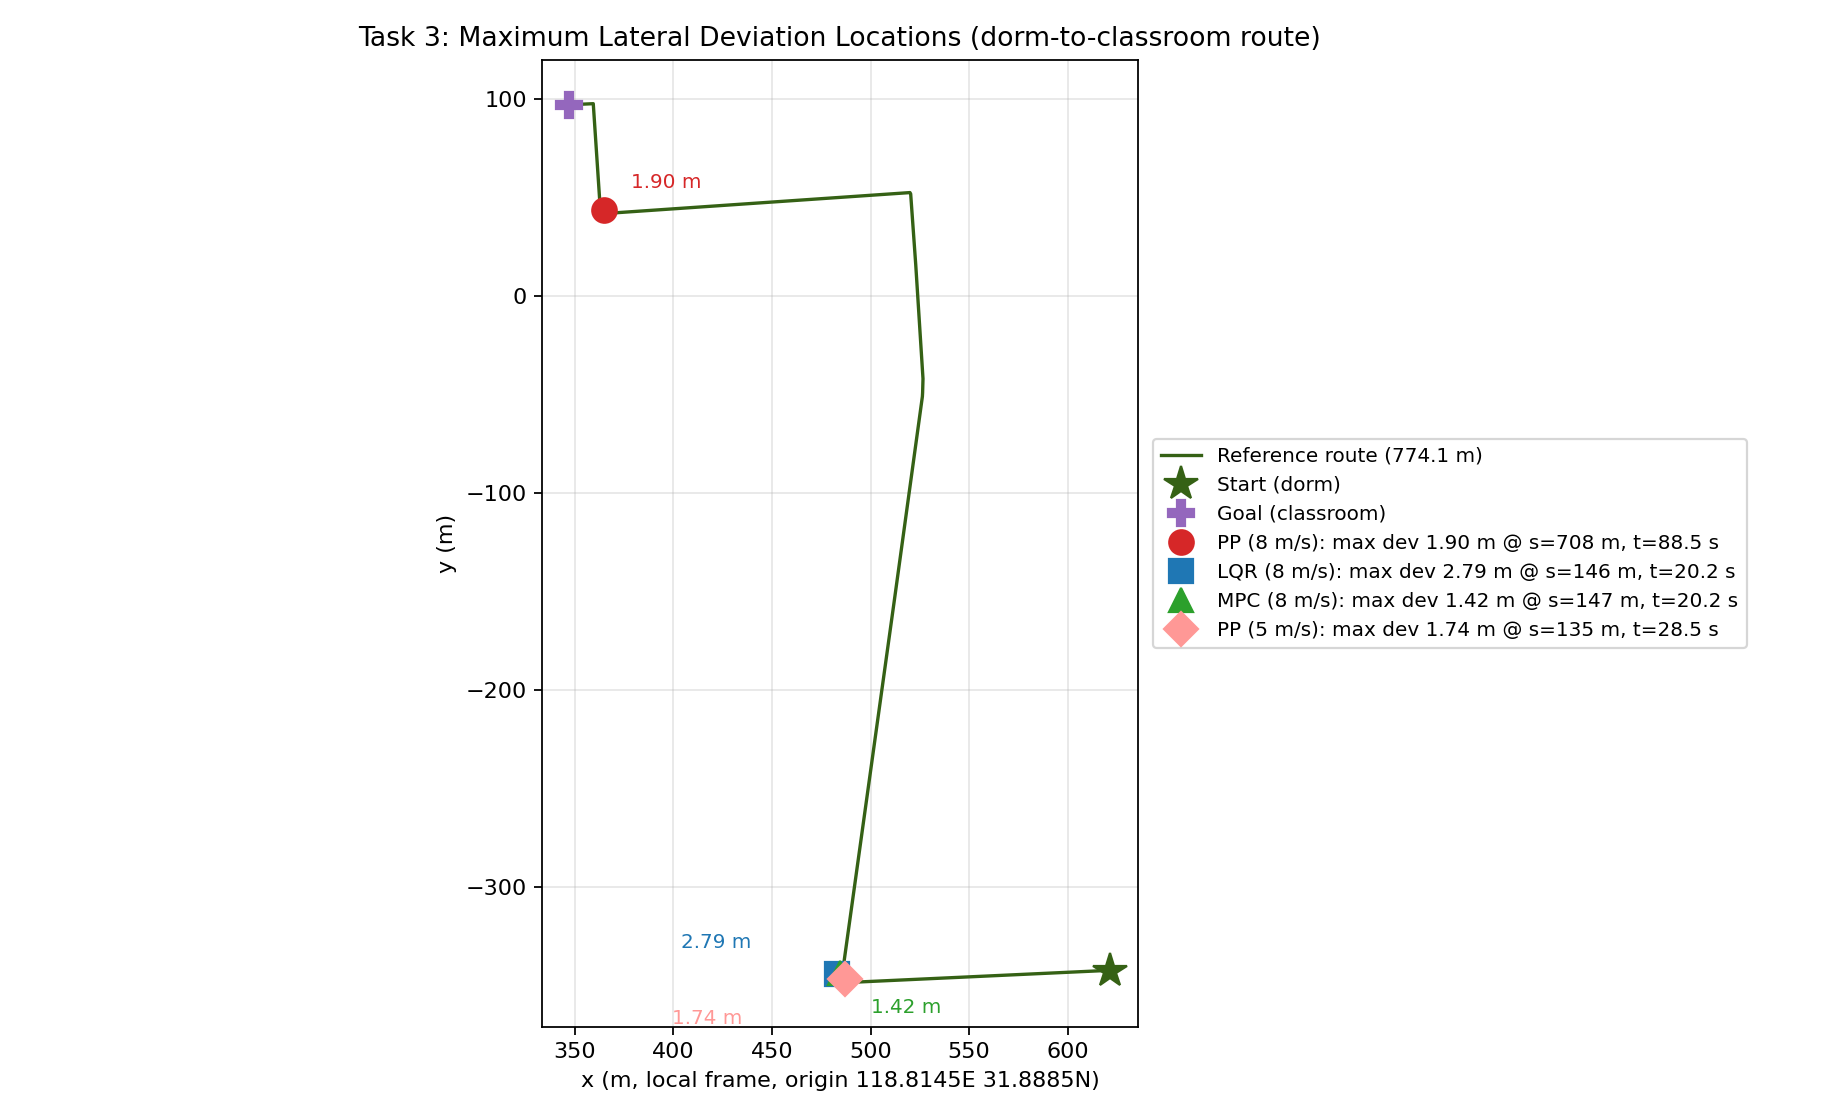
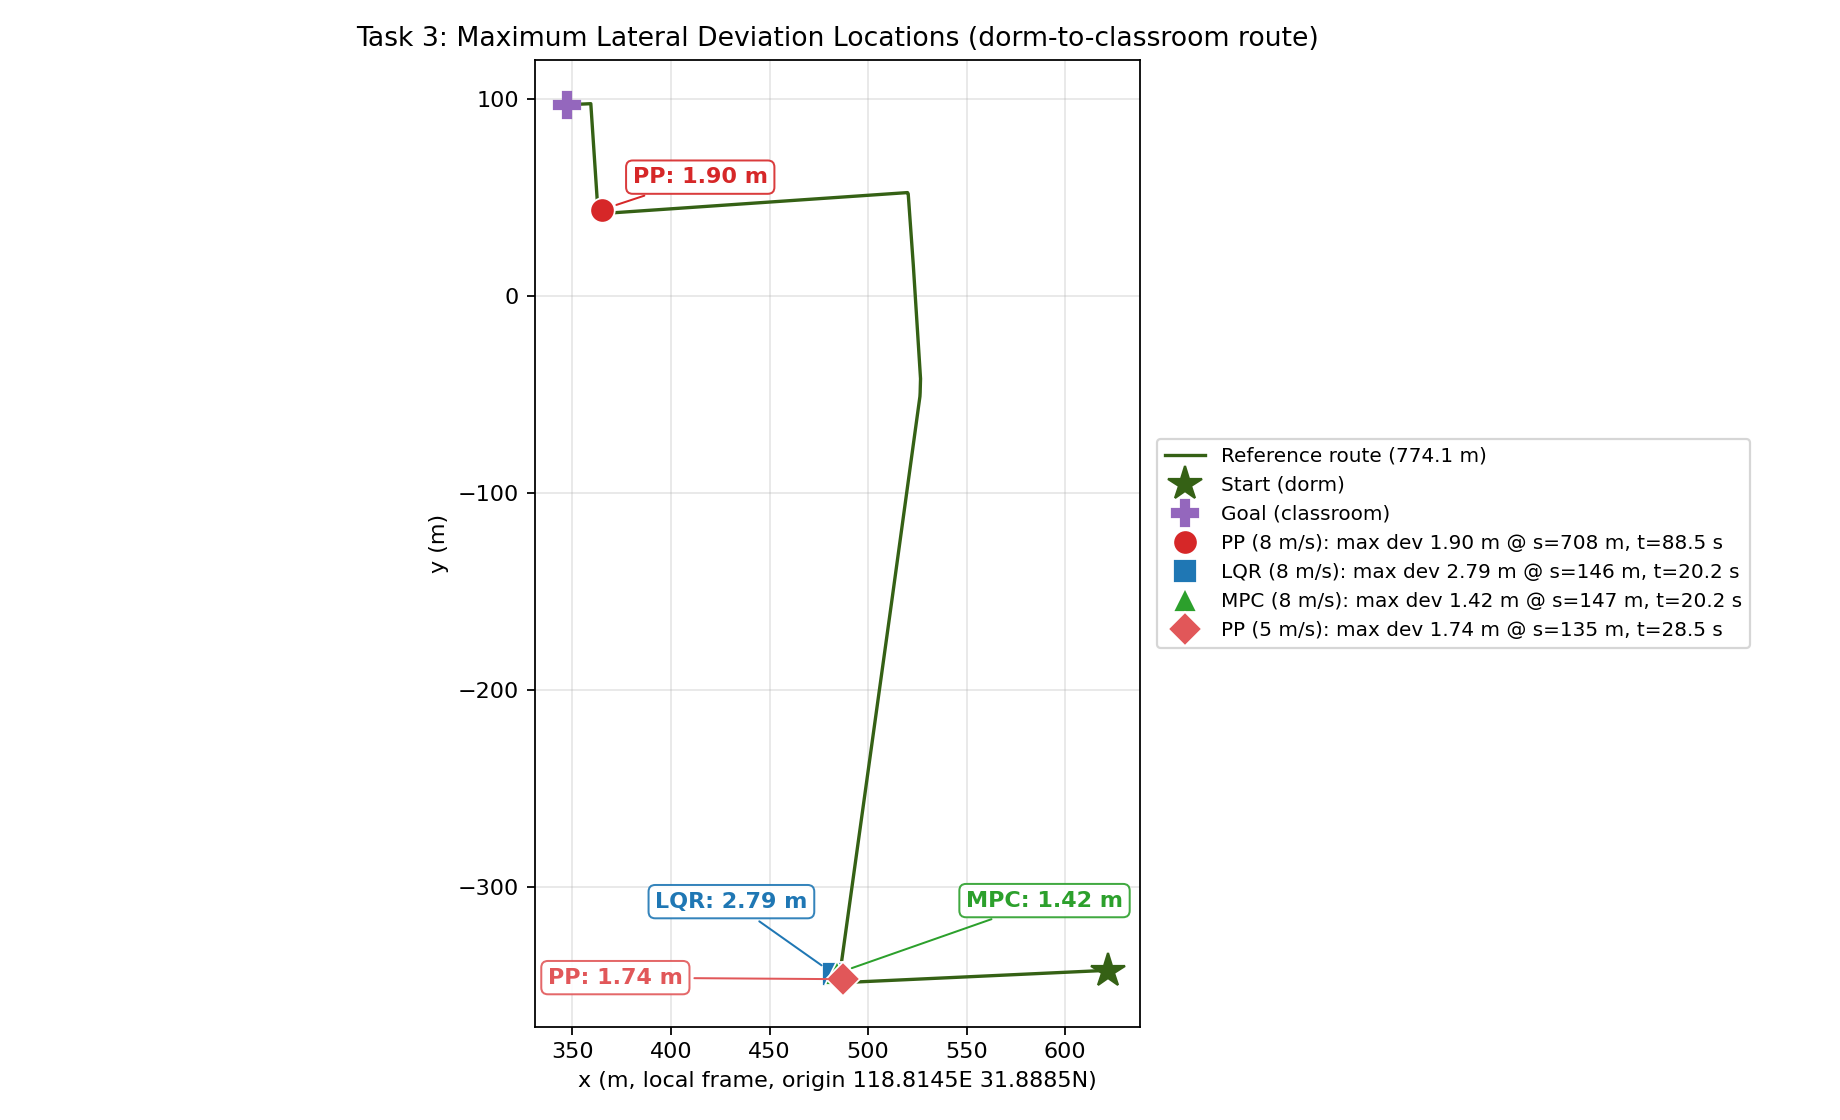
docs: improve deviation map annotations with leader lines and staggered labels

diff --git a/task3/scripts/plot_deviation_map.py b/task3/scripts/plot_deviation_map.py
@@ -18,11 +18,13 @@ import matplotlib.pyplot as plt
 DATA_DIR = Path(__file__).resolve().parents[1] / "data" / "20260916_task3"
 OUT_DIR = Path(__file__).resolve().parents[1] / "report" / "figures"
 
+# 标注位置：xytext 为相对点位的偏移（单位 pt），ha 控制文本对齐，
+# 底部三个点靠得很近，分别朝左上/右下/左下引出，避免互相遮挡。
 RUNS = {
-    "pp__speed8": ("PP (8 m/s)", "#d62728", "o", (12, 10)),
-    "lqr_kinematic__speed8": ("LQR (8 m/s)", "#1f77b4", "s", (-70, 12)),
-    "mpc__speed8": ("MPC (8 m/s)", "#2ca02c", "^", (14, -18)),
-    "pp__speed5": ("PP (5 m/s)", "#ff9896", "D", (-78, -20)),
+    "pp__speed8": ("PP (8 m/s)", "#d62728", "o", (14, 12), "left"),
+    "lqr_kinematic__speed8": ("LQR (8 m/s)", "#1f77b4", "s", (-12, 30), "right"),
+    "mpc__speed8": ("MPC (8 m/s)", "#2ca02c", "^", (58, 30), "left"),
+    "pp__speed5": ("PP (5 m/s)", "#e15759", "D", (-72, -2), "right"),
 }
 
 
@@ -47,24 +49,29 @@ def main():
     ax.plot(rx[0], ry[0], marker="*", ms=16, color="#356115", ls="none", label="Start (dorm)")
     ax.plot(rx[-1], ry[-1], marker="P", ms=12, color="#9467bd", ls="none", label="Goal (classroom)")
 
-    for run, (label, color, marker, offset) in RUNS.items():
+    for run, (label, color, marker, offset, ha) in RUNS.items():
         _, _, peak, near = load(run)
         err = abs(float(peak["lateral_error"]))
         ax.plot(
             float(peak["x"]), float(peak["y"]),
-            marker=marker, ms=11, color=color, ls="none",
+            marker=marker, ms=11, color=color, ls="none", mec="white", mew=0.8,
             label=f"{label}: max dev {err:.2f} m @ s={float(near['s_m']):.0f} m, t={float(peak['time']):.1f} s",
         )
         ax.annotate(
-            f"{err:.2f} m",
+            f"{label.split(' (')[0]}: {err:.2f} m",
             (float(peak["x"]), float(peak["y"])),
-            textcoords="offset points", xytext=offset, fontsize=9, color=color,
+            textcoords="offset points", xytext=offset, ha=ha,
+            fontsize=10, fontweight="bold", color=color,
+            bbox=dict(boxstyle="round,pad=0.3", fc="white", ec=color, lw=0.9, alpha=0.9),
+            arrowprops=dict(arrowstyle="-", color=color, lw=0.9, shrinkB=7),
+            zorder=5,
         )
 
     ax.set_title("Task 3: Maximum Lateral Deviation Locations (dorm-to-classroom route)")
     ax.set_xlabel("x (m, local frame, origin 118.8145E 31.8885N)")
     ax.set_ylabel("y (m)")
     ax.set_aspect("equal")
+    ax.margins(x=0.06, y=0.05)
     ax.grid(alpha=0.3)
     ax.legend(fontsize=9, loc="center left", bbox_to_anchor=(1.01, 0.5))
     fig.tight_layout()
